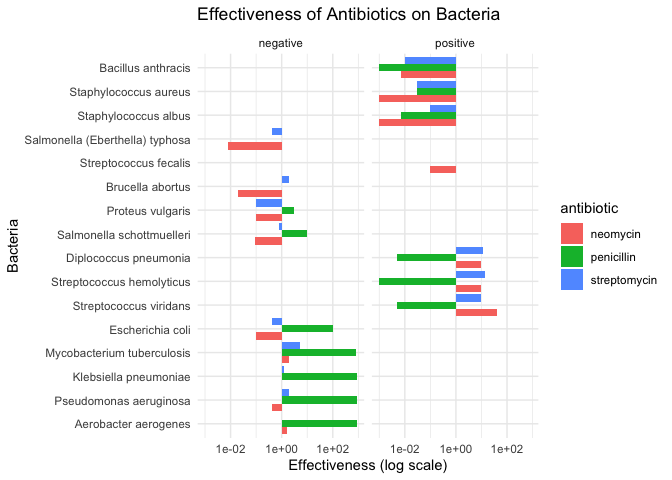
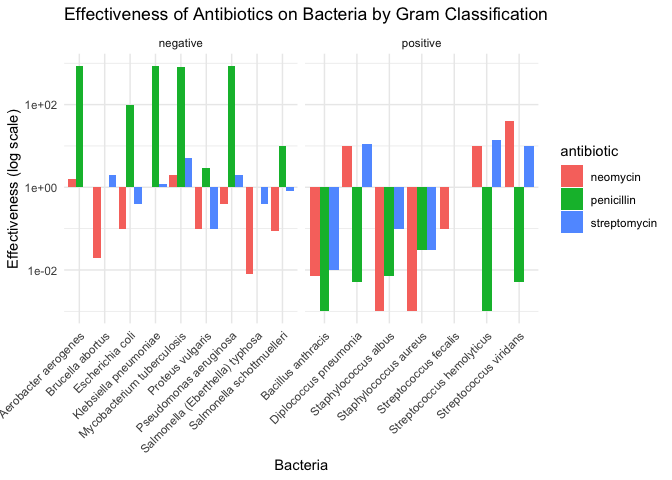
[20250430] Submission 2 for c05.

diff --git a/challenges/c05-antibiotics-assignment.md b/challenges/c05-antibiotics-assignment.md
@@ -160,15 +160,16 @@ is Gram positive or negative.
 df_long <- df_antibiotics %>%
   pivot_longer(cols = c(penicillin, streptomycin, neomycin), names_to = "antibiotic", values_to = "effectiveness")
 
-ggplot(df_long, aes(x = reorder(bacteria, -effectiveness), y = effectiveness, fill = antibiotic)) +
+df_long %>%
+  ggplot(aes(x = bacteria, y = effectiveness, fill = antibiotic)) +
   geom_bar(stat = "identity", position = "dodge") +
-  coord_flip() +
-  facet_wrap(~ gram) +
-  scale_y_log10() + 
+  facet_wrap(~ gram, scales = "free_x") +
+  scale_y_log10() +
   theme_minimal() +
-  labs(title = "Effectiveness of Antibiotics on Bacteria",
+  labs(title = "Effectiveness of Antibiotics on Bacteria by Gram Classification",
        x = "Bacteria",
-       y = "Effectiveness (log scale)")
+       y = "Effectiveness (log scale)") +
+  theme(axis.text.x = element_text(angle = 45, hjust = 1))
 ```
 
 ![](c05-antibiotics-assignment_files/figure-gfm/q1.1-1.png)<!-- -->
@@ -274,23 +275,17 @@ Note that your visual must be *qualitatively different* from *all* of
 your other visuals.
 
 ``` r
-ggplot(df_long, aes(x = antibiotic, y = effectiveness, color = bacteria, group = bacteria)) +
-  geom_line(size = 1) +
-  geom_point(size = 2) +
+df_long %>%
+  ggplot(aes(x = antibiotic, y = effectiveness, fill = antibiotic)) +
+  geom_bar(stat = "identity", position = "dodge") +
+  facet_wrap(~ bacteria, scales = "free_y") +
   scale_y_log10() +
-  facet_wrap(~ gram) +
   theme_minimal() +
-  labs(title = "Trend of Antibiotic Effectiveness Across Bacteria",
+  labs(title = "Antibiotic Effectiveness by Bacteria",
        x = "Antibiotic",
-       y = "Effectiveness (log scale)",
-       color = "Bacteria")
+       y = "Effectiveness (log scale)") +
+  theme(axis.text.x = element_text(angle = 45, hjust = 1))
 ```
-
-    ## Warning: Using `size` aesthetic for lines was deprecated in ggplot2 3.4.0.
-    ## ℹ Please use `linewidth` instead.
-    ## This warning is displayed once every 8 hours.
-    ## Call `lifecycle::last_lifecycle_warnings()` to see where this warning was
-    ## generated.
 
 ![](c05-antibiotics-assignment_files/figure-gfm/q1.5-1.png)<!-- -->
 
@@ -369,7 +364,7 @@ and in 1984 *Streptococcus fecalis* was renamed *Enterococcus fecalis*
 - Which of your visuals above (1 through 5) is **most effective** at
   helping to answer this question?
 
-  - Visual 4
+  - Visual 2
 
 - Why?
 
